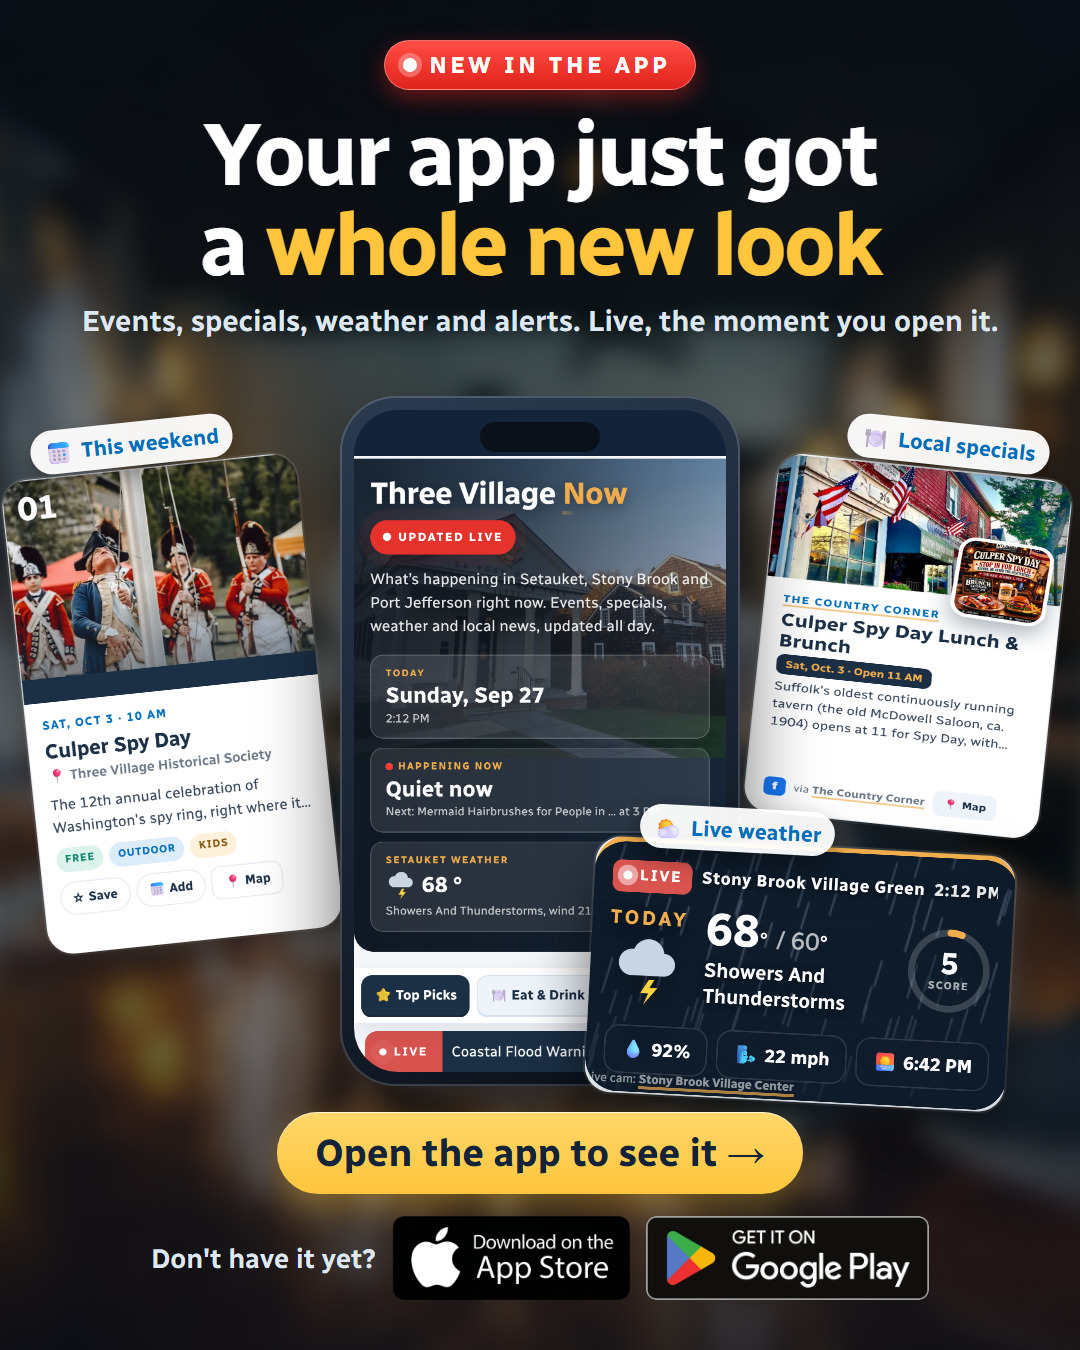
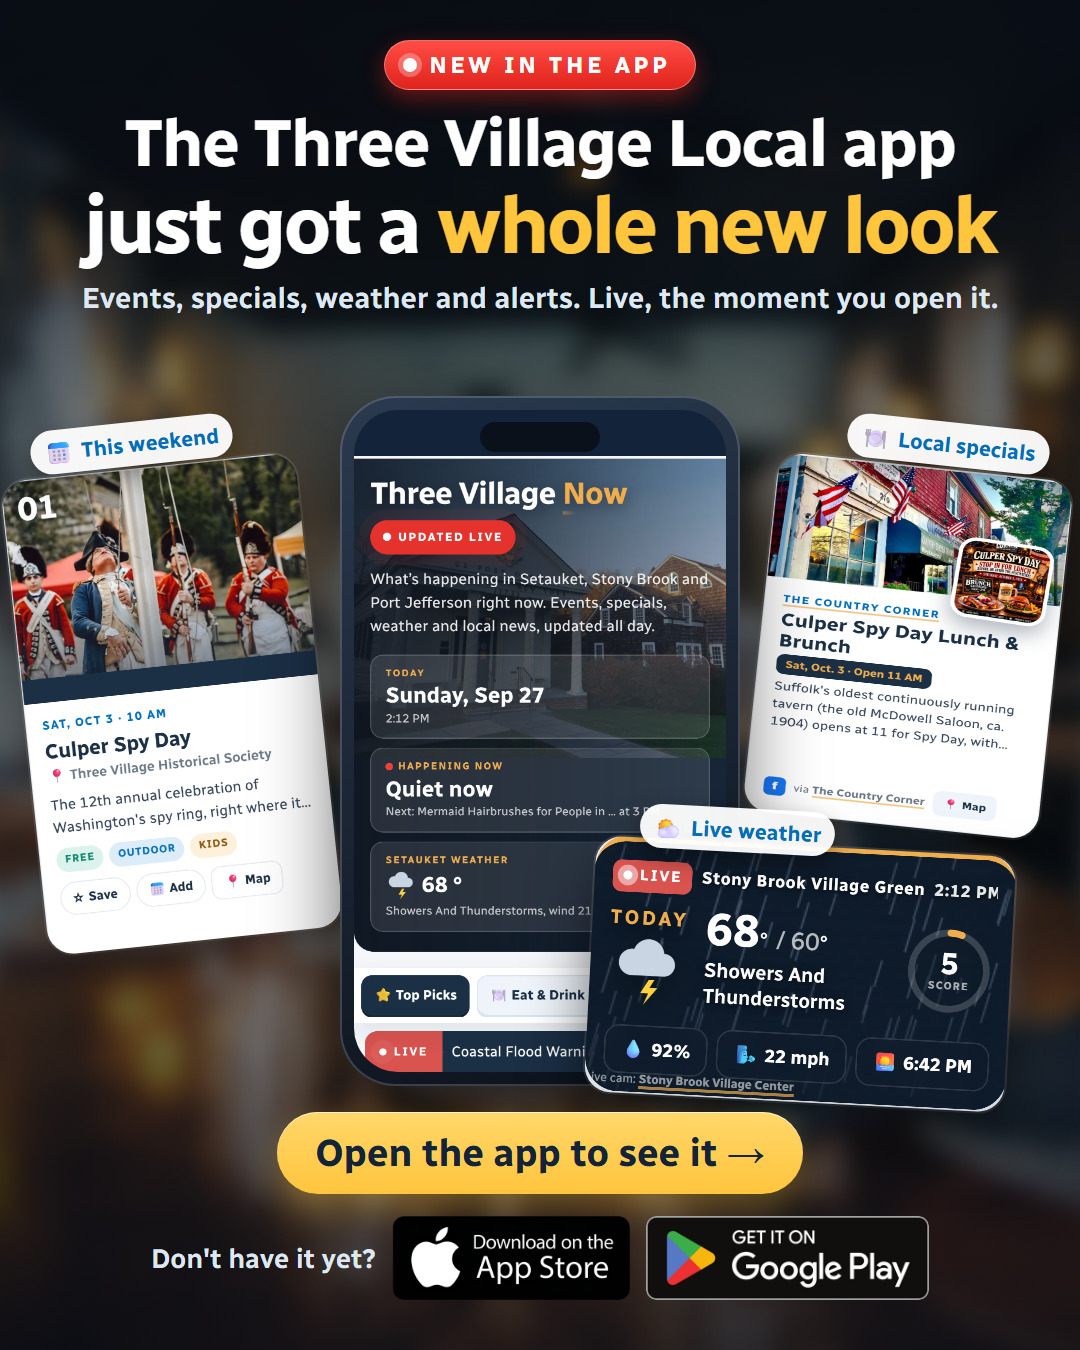
App teaser: name the app in the headline

Changed region(s): [[0.0611, 0.0622, 0.9167, 0.2489]]

diff --git a/weekender/ads/teaser-4x5.html b/weekender/ads/teaser-4x5.html
@@ -32,7 +32,7 @@ h1 span{color:#ffc53d}
 .vig{position:absolute;inset:0;background:radial-gradient(ellipse at 50% 50%,rgba(8,12,20,.30) 0%,rgba(8,12,20,.48) 55%,rgba(8,12,20,.78) 100%),linear-gradient(180deg,rgba(8,12,20,.55) 0%,rgba(8,12,20,0) 28%,rgba(8,12,20,0) 70%,rgba(8,12,20,.6) 100%)}
 .fade{display:none}
 h1{font-size:88px;line-height:1.02;margin:20px 0 14px}
-.sub{font-size:29px}.sub .now{color:#fff;font-weight:700}
+.sub{font-size:29px}h1 small{display:block;font-size:66px;letter-spacing:-.02em;color:#fff;margin-bottom:8px}h1{font-size:80px!important}.sub .now{color:#fff;font-weight:700}
 .head{top:40px}
 .pill{font-size:23px}
 .ticker{display:none}
@@ -46,7 +46,7 @@ h1{font-size:88px;line-height:1.02;margin:20px 0 14px}
 .get img{height:84px;width:auto;border-radius:10px}
 
 </style></head><body><div class="ad"><div class="photo"></div><div class="vig"></div>
-<div class="head"><span class="pill"><i></i>NEW IN THE APP</span><h1>Your app just got<br>a <span>whole new look</span></h1><div class="sub">Events, specials, weather and alerts. Live, the moment you open it.</div></div>
+<div class="head"><span class="pill"><i></i>NEW IN THE APP</span><h1><small>The Three Village Local app</small>just got a <span>whole new look</span></h1><div class="sub">Events, specials, weather and alerts. Live, the moment you open it.</div></div>
 <span class="tag t1">&#128197; <b>This weekend</b></span><span class="tag t2">&#127869;&#65039; <b>Local specials</b></span>
 <div class="card pick"></div><div class="card eat"></div>
 <div class="phone"><div class="notch"></div><div class="screen"></div></div>
